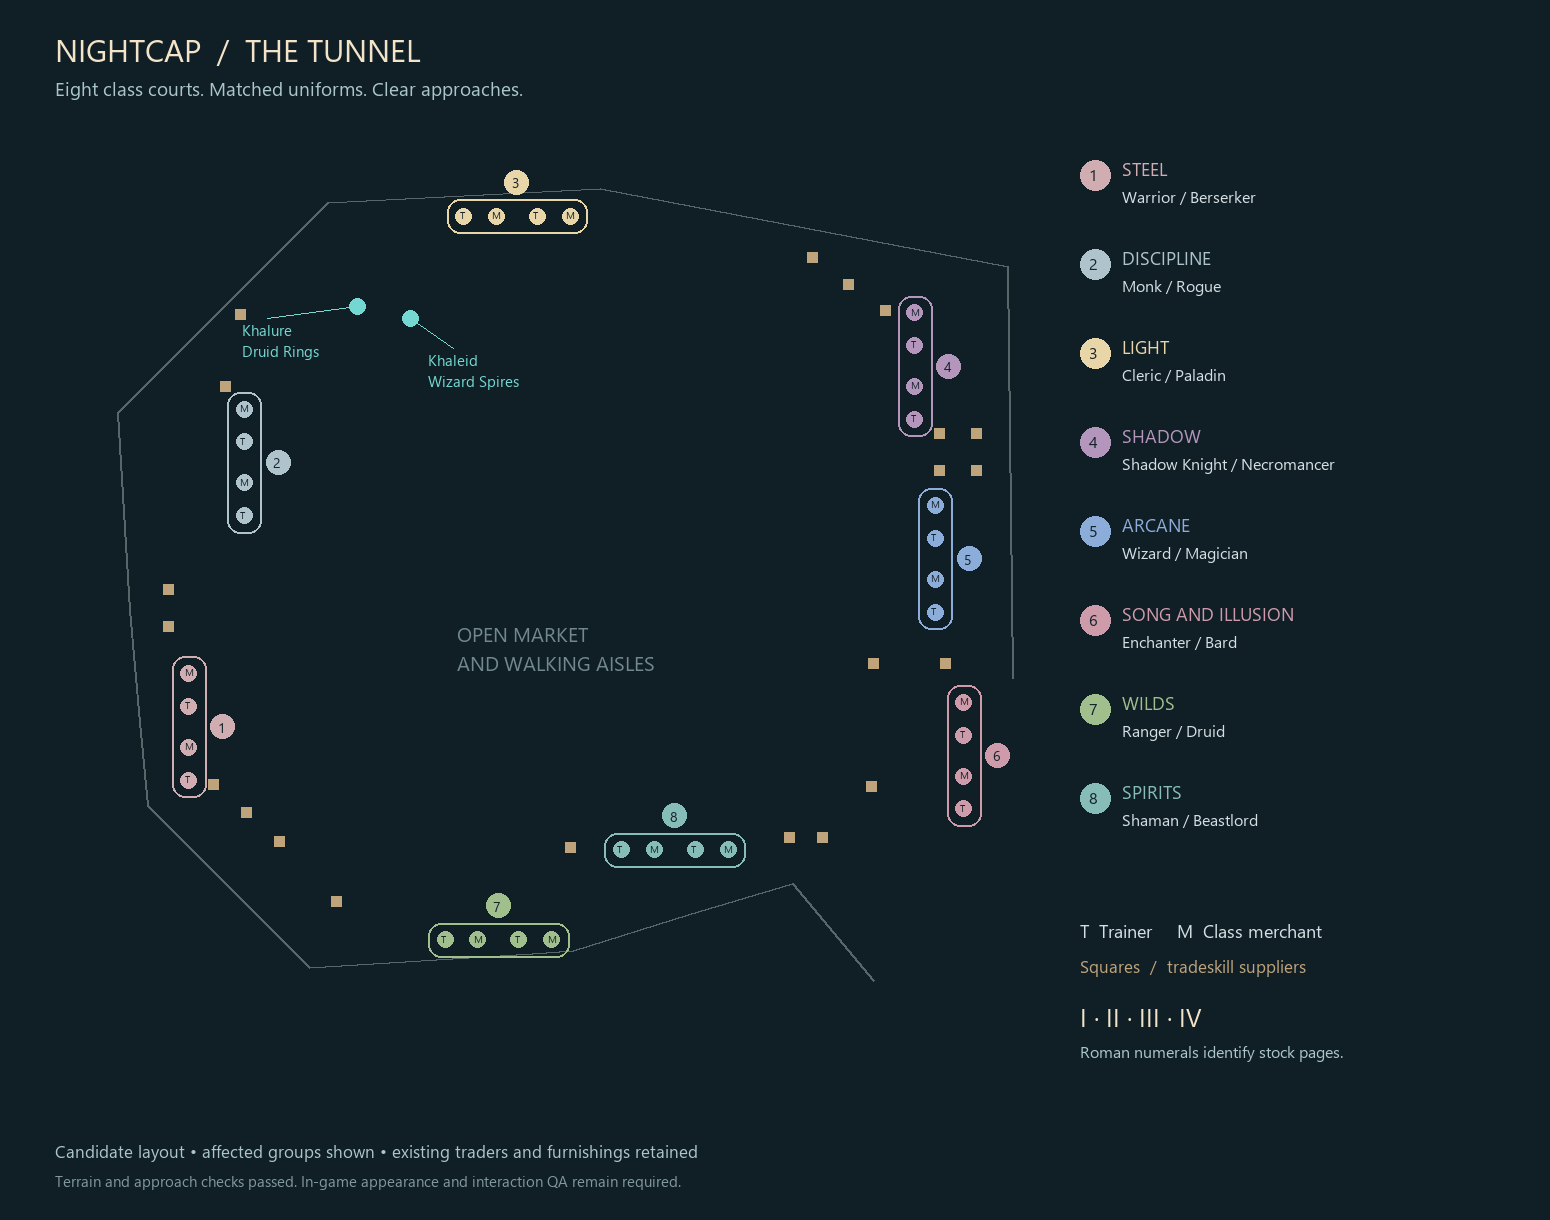
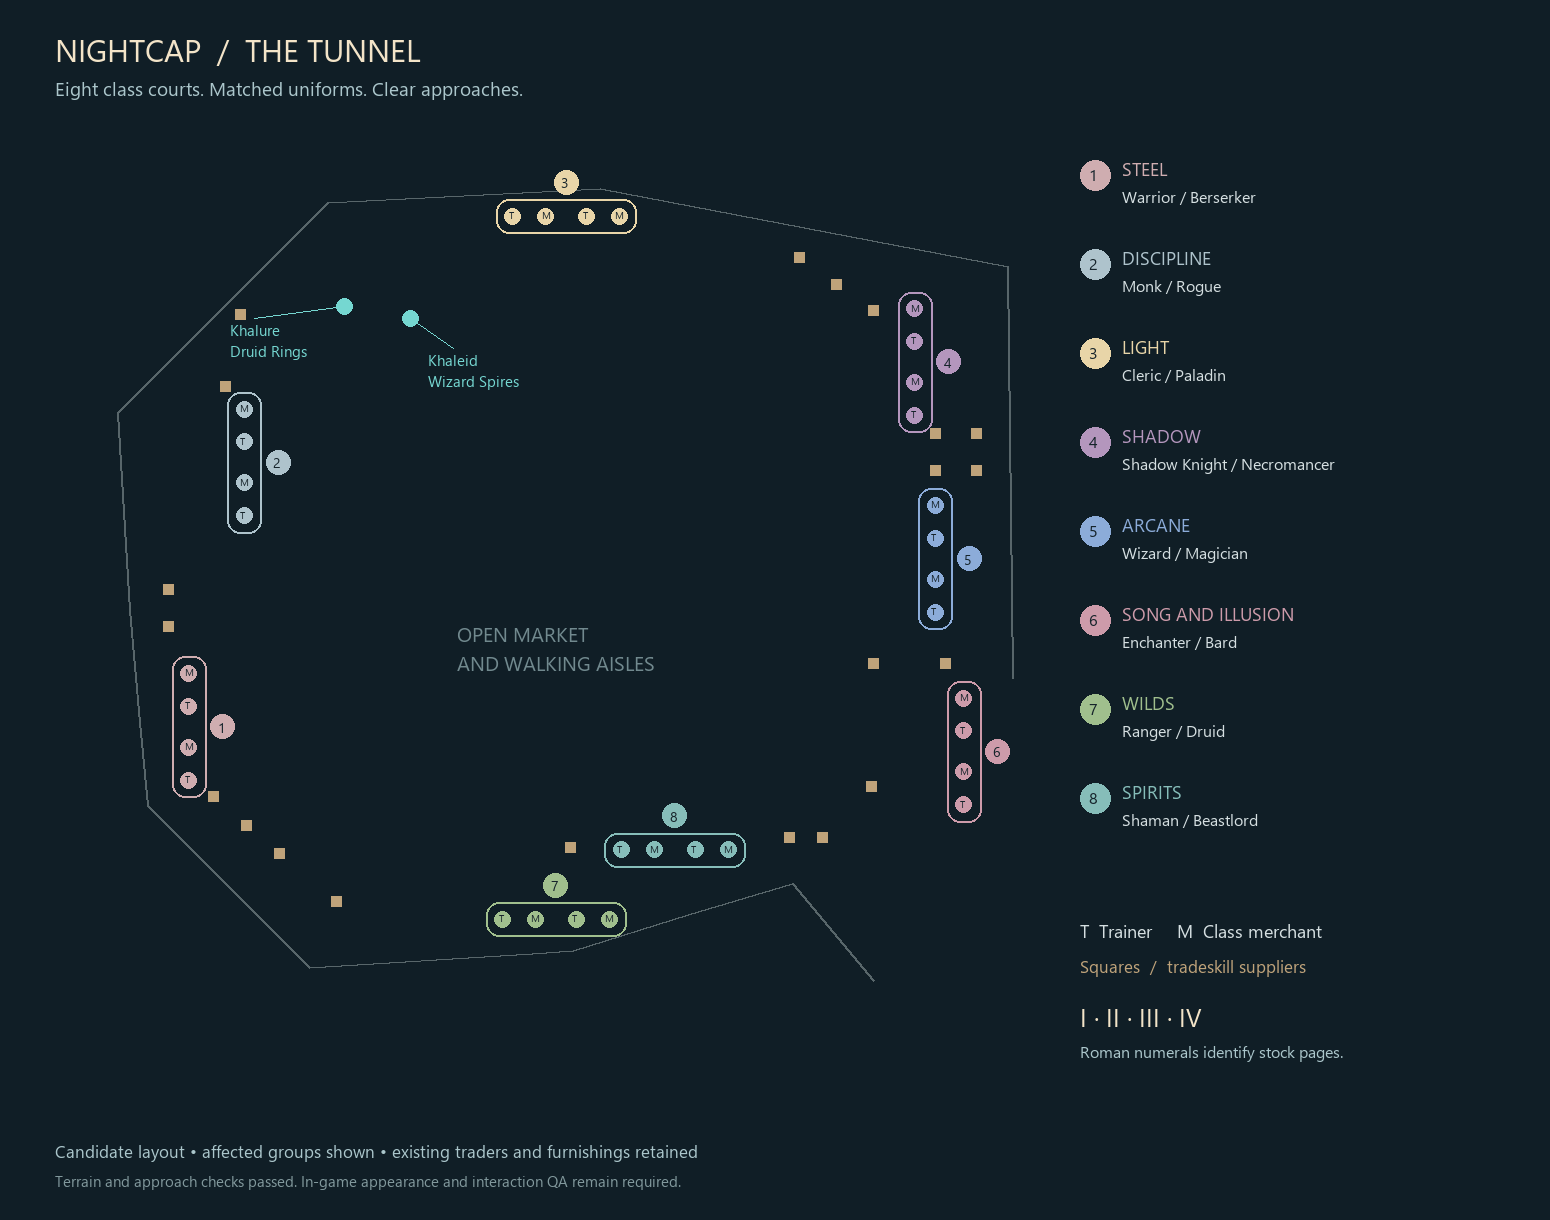
fix: keep native residents and service frontages clear

diff --git a/tools/tests/probe_tunnel_courts.py b/tools/tests/probe_tunnel_courts.py
@@ -9,40 +9,65 @@ import sys
 sys.path.insert(0,str(Path(__file__).resolve().parents[1]))
 from tunnel_courts import placements, ROOT
 
-def run(snapshot,zones,container,probe,evidence):
-    evidence.mkdir(parents=True,exist_ok=True)
-    source=json.loads(snapshot.read_bytes())['rows'];positions=placements()
+def stationary_obstacles(source,positions):
     npcs={n['id']:n for n in source['npc_types']}
-    entries={r['spawngroupID']:r['npcID'] for r in source['spawnentry'] if r['npcID'] in npcs}
+    referenced={r['npcID'] for r in source['spawnentry']}
+    if not referenced<=set(npcs):
+        raise ValueError('Incomplete NPC capture; include every native ecommons spawn reference')
+    entries={}
+    for r in source['spawnentry']:
+        entries.setdefault(r['spawngroupID'],[]).append(int(r['npcID']))
     obstacles=[]
     for s in source['spawn2']:
-        ident=int(entries.get(s['spawngroupID'],0))
-        if ident and ident not in positions and s['pathgrid']=='0':
-            obstacles.append((str(ident),float(s['x']),float(s['y']),12))
+        for ident in entries.get(s['spawngroupID'],[]):
+            if ident not in positions and s['pathgrid']=='0':
+                obstacles.append((str(ident),float(s['x']),float(s['y']),12))
     obstacles += [(o['display_name'],float(o['xpos']),float(o['ypos']),12) for o in source['object'] if o['display_name']]
     obstacles += [(d['name']+d['id'],float(d['pos_x']),float(d['pos_y']),
                    15 if d['name'].startswith(('CART','LEANTO')) else 10) for d in source['doors']]
+    return obstacles
+
+def distance(p,a,b):
+    ax,ay=float(a['x']),float(a['y']);dx=float(b['x'])-ax;dy=float(b['y'])-ay
+    length=dx*dx+dy*dy
+    t=max(0,min(1,((p['x']-ax)*dx+(p['y']-ay)*dy)/length)) if length else 0
+    return math.hypot(p['x']-ax-t*dx,p['y']-ay-t*dy)
+
+def patrol_segments(source):
+    grids={int(r['id']):r for r in source['grid']};segments=[]
+    for gid in range(999700,999708):
+        # GridPatrol=3 reverses at each end; it never takes a last-to-first edge.
+        if gid not in grids or grids[gid]['type']!='3':raise ValueError('Patrol mode drift')
+        route=sorted((r for r in source['grid_entries'] if int(r['gridid'])==gid),key=lambda r:int(r['number']))
+        if [int(r['number']) for r in route]!=[1,2,3,4]:raise ValueError('Patrol route drift')
+        segments.extend(zip(route,route[1:]))
+    return segments
+
+def check_frontage(ident,p,a,obstacles):
+    for name,x,y,gap in obstacles:
+        # Player/NPC collision radii need room throughout the service frontage.
+        if distance(dict(x=x,y=y),p,a)<max(6,gap-4):
+            raise ValueError(f'Blocked frontage: {ident} / {name}')
+
+def run(snapshot,zones,container,probe,evidence):
+    evidence.mkdir(parents=True,exist_ok=True)
+    source=json.loads(snapshot.read_bytes())['rows'];positions=placements()
+    obstacles=stationary_obstacles(source,positions)
     neighbors=[]
     for ident,p in positions.items():
         compare=obstacles+[(str(i),q['x'],q['y'],12) for i,q in positions.items() if i>ident]
         for name,x,y,gap in compare:
-            distance=math.hypot(p['x']-x,p['y']-y)
-            if distance<gap:raise ValueError(f'Overlap: {ident} / {name}: {distance}')
-            neighbors.append(distance)
-    def distance(p,a,b):
-        ax,ay=float(a['x']),float(a['y']);dx=float(b['x'])-ax;dy=float(b['y'])-ay
-        t=max(0,min(1,((p['x']-ax)*dx+(p['y']-ay)*dy)/(dx*dx+dy*dy)))
-        return math.hypot(p['x']-ax-t*dx,p['y']-ay-t*dy)
+            separation=math.hypot(p['x']-x,p['y']-y)
+            if separation<gap:raise ValueError(f'Overlap: {ident} / {name}: {separation}')
+            neighbors.append(separation)
     patrol=[]
-    for gid in range(999700,999708):
-        route=sorted((r for r in source['grid_entries'] if int(r['gridid'])==gid),key=lambda r:int(r['number']))
-        if len(route)!=4:raise ValueError('Patrol route drift')
-        for p in positions.values():patrol.extend(distance(p,a,b) for a,b in zip(route,route[1:]))
+    for p in positions.values():patrol.extend(distance(p,a,b) for a,b in patrol_segments(source))
     if min(patrol)<12:raise ValueError('Patrol overlaps a court')
     points=[];segments=[]
     for ident,p in positions.items():
         h=p['heading']*2*math.pi/512
         a=dict(x=p['x']+math.sin(h)*12,y=p['y']+math.cos(h)*12,z=p['z'])
+        check_frontage(ident,p,a,obstacles+[(str(i),q['x'],q['y'],12) for i,q in positions.items() if i!=ident])
         points += [dict(label=str(ident),**p),dict(label=str(ident)+'-approach',**a)]
         segments.append(dict(**{'from':[p['x'],p['y'],p['z']+3]},to=[a['x'],a['y'],a['z']+3]))
     def native(request):

diff --git a/tools/tests/test_tunnel_courts.py b/tools/tests/test_tunnel_courts.py
@@ -7,6 +7,7 @@ import unittest
 sys.path.insert(0, str(Path(__file__).resolve().parents[1]))
 from tunnel_courts import (class_members, roman_title, appearance, CLASS_STYLES,
                           placements, IDS, KHALEID, KEYS, desired, rollback_target, patch_sql)
+from probe_tunnel_courts import stationary_obstacles, patrol_segments, check_frontage
 
 def fixture():
     rows={t:[] for t in KEYS}
@@ -26,6 +27,32 @@ def fixture():
 
 
 class TunnelCourts(unittest.TestCase):
+    def test_probe_rejects_missing_native_npc_definitions(self):
+        source=dict(npc_types=[dict(id='999650')],spawnentry=[dict(spawngroupID='1',npcID='22081')])
+        with self.assertRaisesRegex(ValueError,'Incomplete NPC capture'):
+            stationary_obstacles(source,{})
+
+    def test_probe_checks_all_alternates_in_a_spawn_group(self):
+        source=dict(npc_types=[dict(id='22081'),dict(id='999650')],
+                    spawnentry=[dict(spawngroupID='1',npcID=i) for i in ('22081','999650')],
+                    spawn2=[dict(spawngroupID='1',pathgrid='0',x='-252',y='-1512')],object=[],doors=[])
+        # The last entry belongs to a moved court; the retained alternate still matters.
+        self.assertEqual(stationary_obstacles(source,{999650:{}}),[('22081',-252,-1512,12)])
+
+    def test_probe_validates_patrol_mode_before_assuming_reversal(self):
+        source=dict(grid=[dict(id=str(i),type='3') for i in range(999700,999708)],
+                    grid_entries=[dict(gridid=str(i),number=str(j),x=str(j),y='0')
+                                  for i in range(999700,999708) for j in range(1,5)])
+        self.assertEqual(len(patrol_segments(source)),24)
+        source['grid'][0]['type']='0'
+        with self.assertRaisesRegex(ValueError,'Patrol mode drift'):patrol_segments(source)
+
+    def test_probe_rejects_npc_blocking_access_despite_clear_centers(self):
+        p=dict(x=0,y=0);approach=dict(x=12,y=0)
+        with self.assertRaisesRegex(ValueError,'Blocked frontage'):
+            check_frontage(1,p,approach,[('native resident',12,2,12)])
+        check_frontage(1,p,approach,[('native resident',12,9,12)])
+
     def test_classes_keep_one_trainer_and_one_shop_with_matching_uniforms(self):
         groups=class_members()
         self.assertEqual(set(groups),set(range(1,17)))

diff --git a/tools/tunnel_courts.py b/tools/tunnel_courts.py
@@ -30,11 +30,11 @@ CLASS_STYLES={
 COURTS=[
     ('Steel', (1,16), -387,-1766,128),
     ('Discipline',(7,9),-360,-1637,128),
-    ('Light',(2,3),-227,-1517,256),
-    ('Shadow',(5,11),-33,-1590,384),
+    ('Light',(2,3),-203,-1517,256),
+    ('Shadow',(5,11),-33,-1588,384),
     ('Arcane',(12,13),-23,-1684,384),
-    ('Song and Illusion',(14,8),-9,-1780,384),
-    ('Wilds',(4,6),-236,-1870,0),
+    ('Song and Illusion',(14,8),-9,-1778,384),
+    ('Wilds',(4,6),-208,-1860,0),
     ('Spirits',(10,15),-150,-1826,0),
 ]
 SUPPLIES={
@@ -46,14 +46,14 @@ SUPPLIES={
     'Research':(3,12,0x6E799F,6), 'Fishing':(1,1,0x789196,6),
 }
 TRADE_POSITIONS={
-    999601:(-375,-1794,64),999602:(-359,-1808,64),999603:(-343,-1822,64),
+    999601:(-375,-1800,64),999602:(-359,-1814,64),999603:(-343,-1828,64),
     999604:(-315,-1851,0),999605:(-94,-1820,0),999606:(-78,-1820,0),
     999607:(-54,-1795,384),999608:(-362,-1565,256),999609:(-369,-1600,128),
     999610:(-201,-1825,0),999611:(-18,-1735,384),
-    999612:(-21,-1623,384),999613:(-21,-1641,384),
+    999612:(-23,-1623,384),999613:(-23,-1641,384),
     999614:(-3,-1623,384),999615:(-3,-1641,384),
     999616:(-397,-1699,128),999617:(-397,-1717,128),
-    999618:(-83,-1537,320),999619:(-65,-1550,320),999620:(-47,-1563,320),
+    999618:(-89,-1537,320),999619:(-71,-1550,320),999620:(-53,-1563,320),
     999621:(-53,-1735,384),
 }
 IDS=set(range(997900,997916))|set(range(999650,999666))|set(range(999600,999622))|{999525,999527,999225}
@@ -99,7 +99,7 @@ def placements():
             result[ident]=dict(x=x+offset if heading in (0,256) else x,
                               y=y if heading in (0,256) else y+offset,z=3.75,heading=heading)
     result.update({i:dict(x=x,y=y,z=3.75,heading=h) for i,(x,y,h) in TRADE_POSITIONS.items()})
-    result[999525]=dict(x=-305,y=-1561,z=3.75,heading=256)
+    result[999525]=dict(x=-311,y=-1561,z=3.75,heading=256)
     result[KHALEID]=dict(x=-279,y=-1567,z=3.75,heading=256)
     return result
 

diff --git a/docs/releases/tunnel-class-courts/README.md b/docs/releases/tunnel-class-courts/README.md
@@ -13,7 +13,7 @@ No production files or SQL were changed.
   playable race and armor material/color/size, with male/female variation.
 - Twenty-two suppliers use profession outfits. Fourteen spillover subtitles use
   I–IV. Bartholomew becomes a Halfling. Stock, prices and class functions stay intact.
-- Khalure (999525) moves to X=-305,Y=-1561,Z=3.75 with `Druid Rings`. His script,
+- Khalure (999525) moves to X=-311,Y=-1561,Z=3.75 with `Druid Rings`. His script,
   era restrictions and Lavastorm readiness gate are unchanged.
 - Khaleid (999527), X=-279,Y=-1567,Z=3.75, is a male Dark Elf wizard with `Wizard
   Spires`, Carmine Robe material 15/RGB 175,10,50 and Blue Crystal Staff IT122.
@@ -32,7 +32,7 @@ uniforms and native subtitles and requires no client patch.
 
 ## Verification
 
-- 9 new Python checks preserve trainer/shop functions, stock links, stats,
+- 13 new Python checks preserve trainer/shop functions, stock links, stats,
   matching uniforms, Roman pages, display-only gear and scoped recovery.
 - 19 MariaDB checks on captured production schemas in a disposable local database:
   exact apply/rollback, case-only drift/replay/orphan rejection, fresh recovery
@@ -43,7 +43,10 @@ uniforms and native subtitles and requires no client patch.
   quest loading or rendered gameplay.
 - 550 court ground/headroom samples, 55 clear approach rays and 40 samples for
   eight wizard landings pass. Patrol clearance is at least 12.122 world units;
-  small props get 10 units, carts/lean-tos 15, NPCs/stations 12.
+  small props get 10 units, carts/lean-tos 15, NPCs/stations 12. The full native
+  NPC roster is included, and continuous service frontages clear NPCs by 8 units,
+  small props by 6 and carts/lean-tos by 11. Actual patrol modes must match the
+  verified reversing routes. Regression tests reject incomplete roster captures.
 - All nine tested map hashes match production, including its configured
   `nektulos_classic.map`. [Hashes](map-hashes.json), [geometry](geometry-summary.json),
   [database checks](database-checks.json).
@@ -118,7 +121,7 @@ Database coordinates are X,Y,Z; `/loc` reports Y,X,Z.
 3. Check Smithing I–III, Baking I–II, Alchemy I–IV, Poison I–II and Research I–III.
    Every page remains separately shoppable with its prior stock. Check single-page
    suppliers and open all six crafting-station windows.
-4. Khalure at `/loc -1561,-305,3.75`: `Druid Rings` displays. Hail and take West
+4. Khalure at `/loc -1561,-311,3.75`: `Druid Rings` displays. Hail and take West
    Commonlands, then return. All ring/era/Lavastorm gates behave as before.
 5. Khaleid at `/loc -1567,-279,3.75`: Dark Elf male, Carmine robe, Blue Crystal Staff,
    `Wizard Spires`. Hail offers exactly Toxxulia, North Karana, Greater Faydark,

diff --git a/docs/milestones/phase-38-report.md b/docs/milestones/phase-38-report.md
@@ -5,7 +5,7 @@ subtitles, Khalure's druid-ring label and Khaleid's Classic wizard travel.
 Guarded migration/recovery preserves stock, prices, player data, rules and class
 functions. [Evidence and exact QA](../releases/tunnel-class-courts/README.md).
 
-Passed 9 new Python tests, 19 MariaDB checks, 26 wizard/21 resident assertions,
+Passed 13 new Python tests, 19 MariaDB checks, 26 wizard/21 resident assertions,
 8 existing service tests, 550 court samples, 55 approach rays and 40 landing
 samples. All nine maps match production hashes.
 
